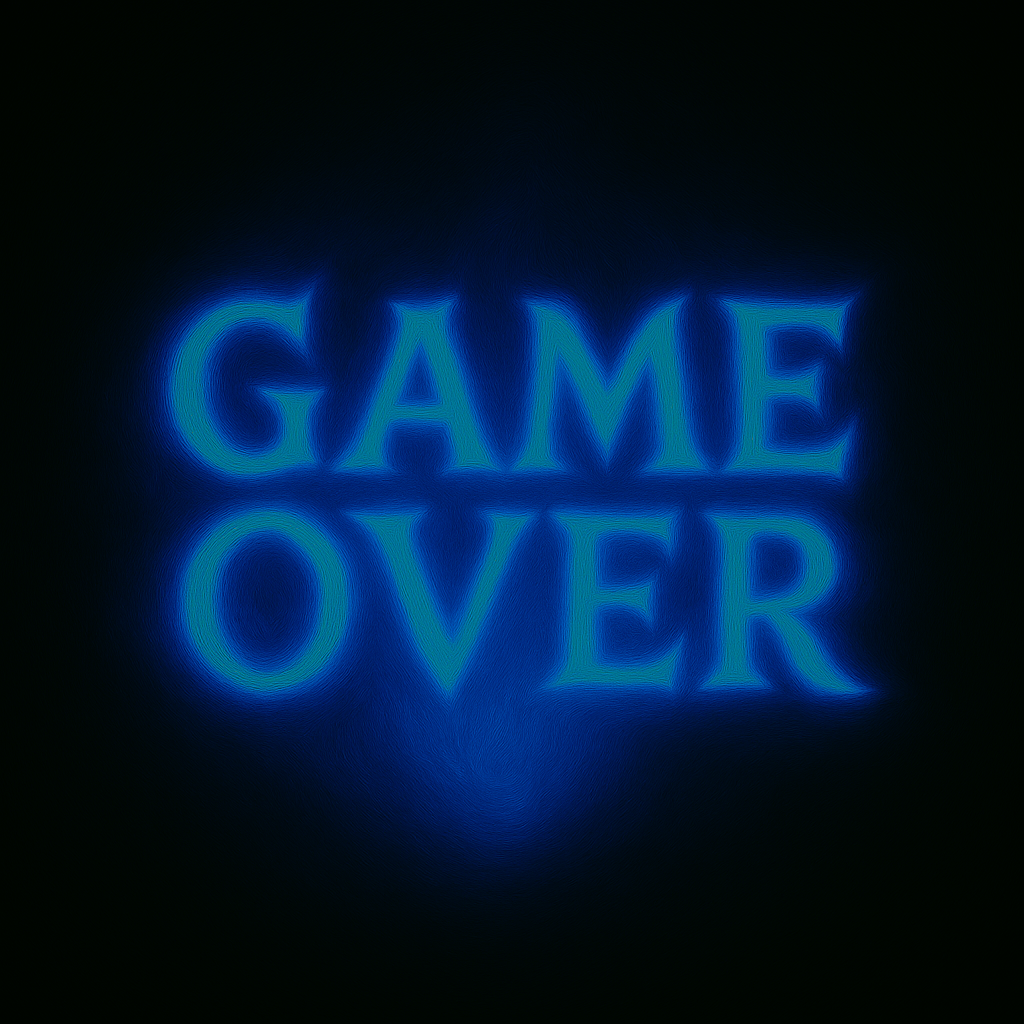
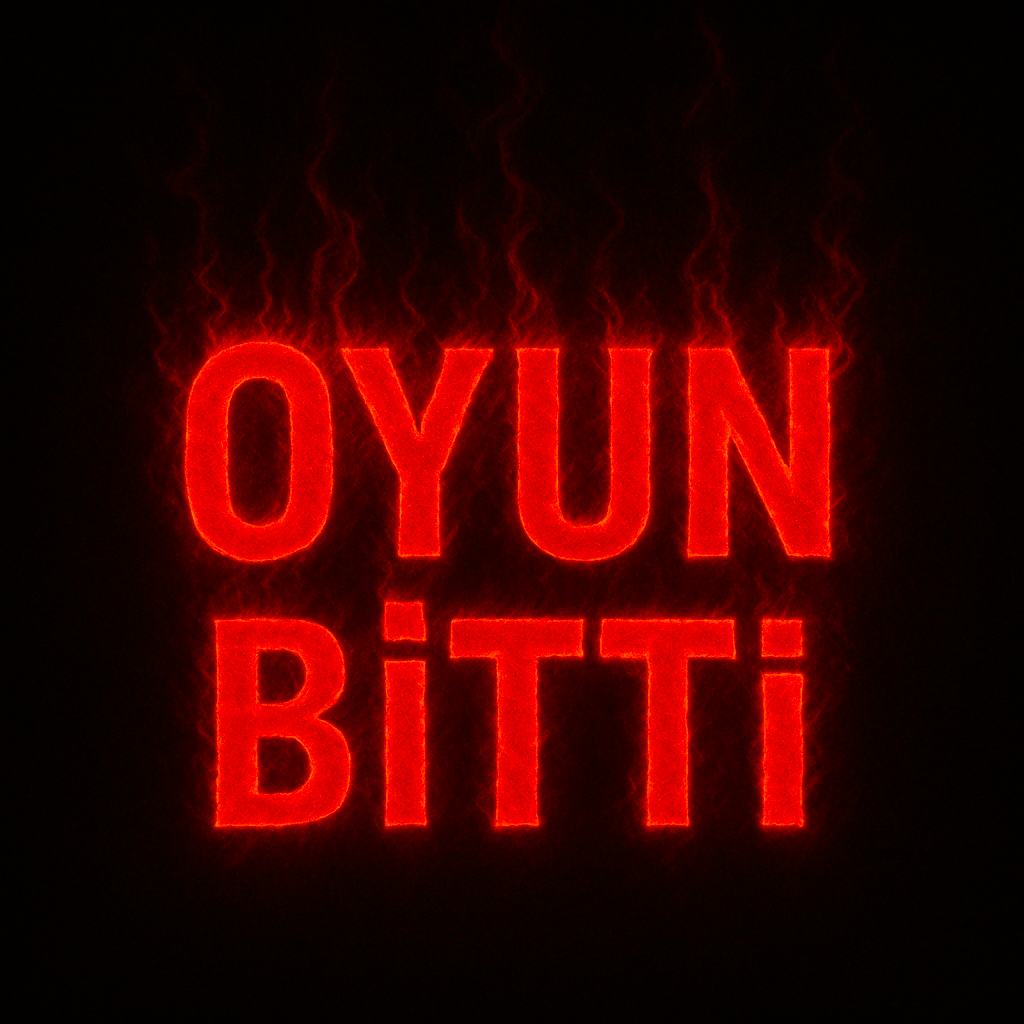
-win scene eklendi -game over scene düzenlendi

diff --git a/game.js b/game.js
@@ -119,6 +119,13 @@ class GameScene extends Phaser.Scene {
 
     create() {
 
+        this.input.keyboard.on('keydown-V', () => {
+            this.scene.start('WinScene');
+        });
+
+        this.input.keyboard.on('keydown-L', () => {
+            this.scene.start('GameOverScene');
+        });
 
         this.itemSpawnInterval = 1000; // item spawn aralığı
         this.itemSpawnTimer = 0;
@@ -649,7 +656,7 @@ class GameOverScene extends Phaser.Scene {
 
     preload() {
         this.load.image('game-over', 'assets/ui/game-over.png');
-        this.load.image('restart-button', 'assets/ui/restart-button.png');
+        this.load.image('restart-button', 'assets/ui/restart-red.png');
         this.load.image('score-image', 'assets/ui/score-image.png');    // Ses açık ikonu
     }
 
@@ -659,45 +666,104 @@ class GameOverScene extends Phaser.Scene {
 
 
         // "Game Over" Yazısı
-        this.gameOverText = this.add.image(this.game.config.width / 2, config.height / 2 - 100, 'game-over')
+        this.gameOverText = this.add.image(this.game.config.width / 2, config.height / 2 - 200, 'game-over')
         this.gameOverText.setOrigin(0.5, 0.5);
+        this.gameOverText.setScale(0.75);
 
-        this.FinalScoreText = this.add.text(config.width / 2, config.height / 2 + 200, 'Score = ' + finalScore, {
-            fontSize: '40px',
-            fontFamily: 'monospace',
+        //skor yazısı
+        this.FinalScoreText = this.add.text(config.width / 2, config.height / 2 + 120, 'Score : ' + finalScore, {
+            fontSize: '50px',
             fontWeight: 'bold',
-            fill: '#d6eaf8',
-            stroke: '#5DADE2',
+            fill: '#d00000',
+            stroke: '#e85d04',
             strokeThickness: 4
         });
         this.FinalScoreText.setOrigin(0.5, 0.5);
         this.FinalScoreText.setScrollFactor(0);
+        this.FinalScoreText.setDepth(1);
 
         // tekrar-oyna button
-        const restartButton = this.add.image(config.width / 2, config.height - 100, 'restart-button');
+        const restartButton = this.add.image(config.width / 2, config.height - 200, 'restart-button');
         restartButton.setScale(0.3);
         restartButton.setInteractive({ useHandCursor: true });
 
-        // Button interactions
+        // Buton için pulse efekti
+        let buttonTween = this.tweens.add({
+            targets: [restartButton],
+            scaleX: { from: restartButton.scaleX, to: restartButton.scaleX * 1.1 },
+            scaleY: { from: restartButton.scaleY, to: restartButton.scaleY * 1.1 },
+            duration: 800,
+            yoyo: true,
+            repeat: -1
+        });
+
+        // Buton efektleri
         restartButton.on('pointerover', () => {
-            restartButton.setScale(0.4);
+            restartButton.setScale(restartButton.scaleX * 1.1);
+            buttonTween.pause();
         });
 
         restartButton.on('pointerout', () => {
-            restartButton.setScale(0.35);
+            restartButton.setScale(restartButton.scaleX * 1.1);
+            buttonTween.resume();
         });
 
         restartButton.on('pointerdown', () => {
-            restartButton.setScale(0.3);
-        });
+            restartButton.disableInteractive();
+            restartButton.setVisible(false);
+            this.scene.start('GameScene');
 
-        restartButton.on('pointerup', () => {
-            this.scene.start('StartScene');
         });
     }
+}
 
-    update() {
-        // Oyun bitti ekranını güncelleyin
+class WinScene extends Phaser.Scene {
+    constructor() {
+        super({ key: 'WinScene' });
+    }
+
+    preload() {
+        this.load.image('win-text', 'assets/ui/win.png');
+        this.load.image('restart','assets/ui/restart-green.png')
+    }
+
+    create() {
+
+        //kazandınız yazısı
+        this.winText = this.add.image(config.width / 2, config.height / 2 - 200, 'win-text');
+
+        // tekrar-oyna button
+        const restartButton = this.add.image(config.width / 2, config.height - 200, 'restart');
+        restartButton.setScale(0.3);
+        restartButton.setInteractive({ useHandCursor: true });
+
+        // Buton için pulse efekti
+        let buttonTween = this.tweens.add({
+            targets: [restartButton],
+            scaleX: { from: restartButton.scaleX, to: restartButton.scaleX * 1.1 },
+            scaleY: { from: restartButton.scaleY, to: restartButton.scaleY * 1.1 },
+            duration: 800,
+            yoyo: true,
+            repeat: -1
+        });
+
+        // Buton efektleri
+        restartButton.on('pointerover', () => {
+            restartButton.setScale(0.45);
+            buttonTween.pause();
+        });
+
+        restartButton.on('pointerout', () => {
+            restartButton.setScale(0.4);
+            buttonTween.resume();
+        });
+
+        restartButton.on('pointerdown', () => {
+            restartButton.disableInteractive();
+            restartButton.setVisible(false);
+            this.scene.start('GameScene');
+
+        });
     }
 }
 
@@ -713,16 +779,15 @@ const config = {
     physics: {
         default: 'arcade',
         arcade: {
-            gravity: { y: 0 }, //item düşme hızını değiştirir
+            gravity: { y: 200 }, //item düşme hızını değiştirir
             debug: true
         }
     },
-    scene: [StartScene, GameScene, GameOverScene]
+    scene: [StartScene, GameScene, GameOverScene, WinScene]
 };
 
 const game = new Phaser.Game(config);
 
-//TODO: game over ve win sahnelerini ekle
+//TODO: kazanma şartı ekle
+//TODO: ateş toplarına dönme ekle
 //TODO: sesleri ekle
-//TODO: zorluk ekle
-//TODO: ui elementleri ekle
